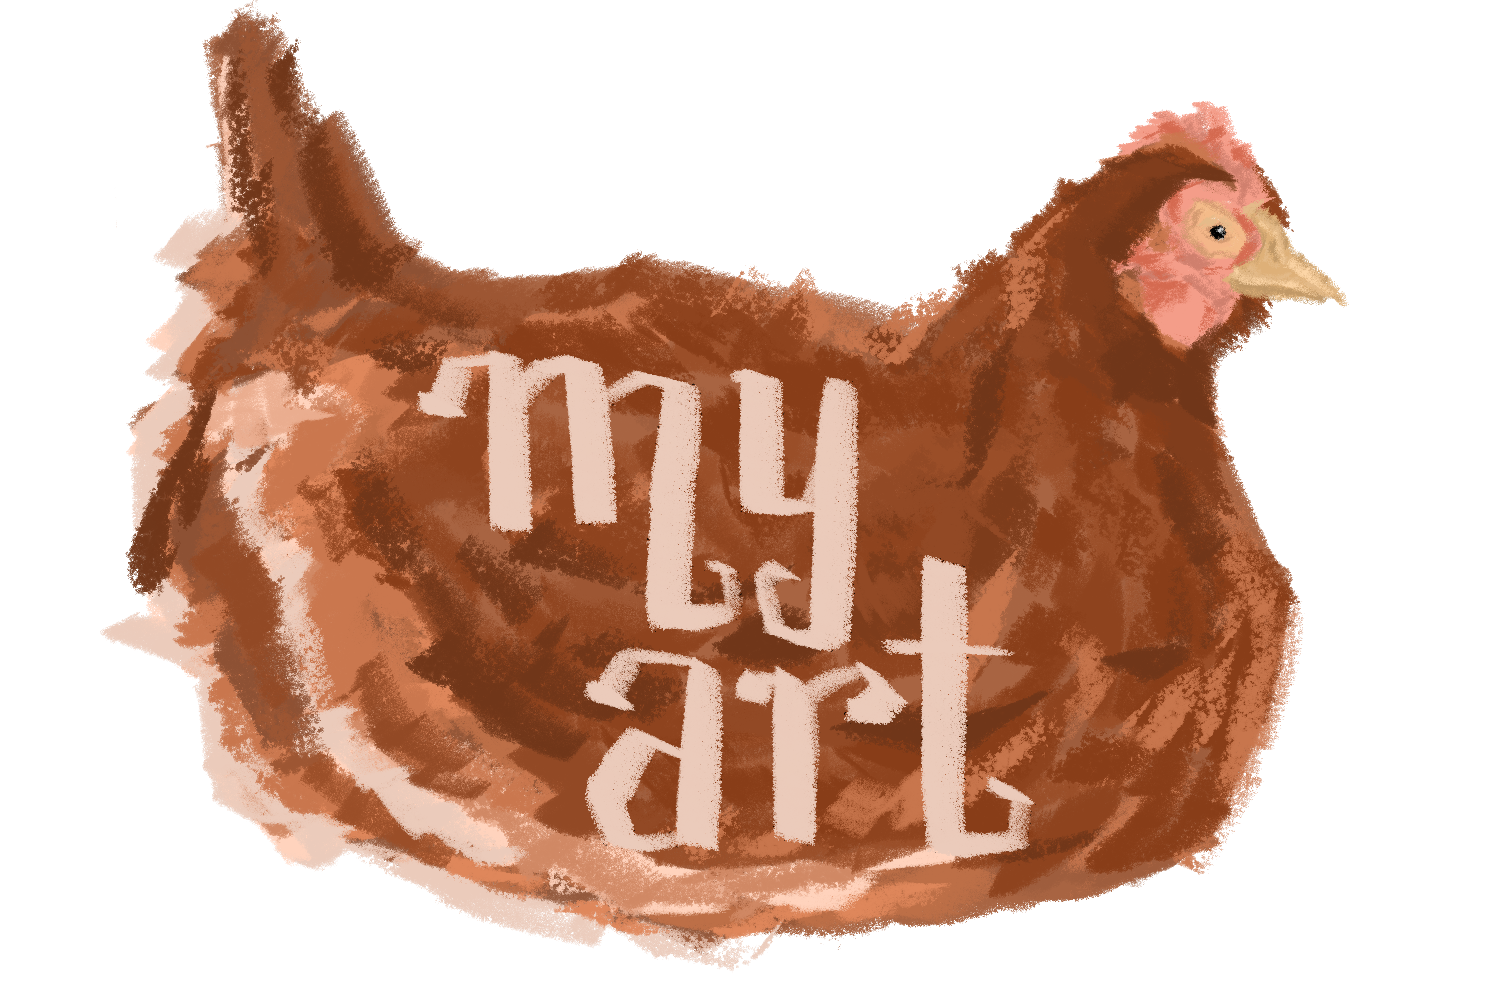
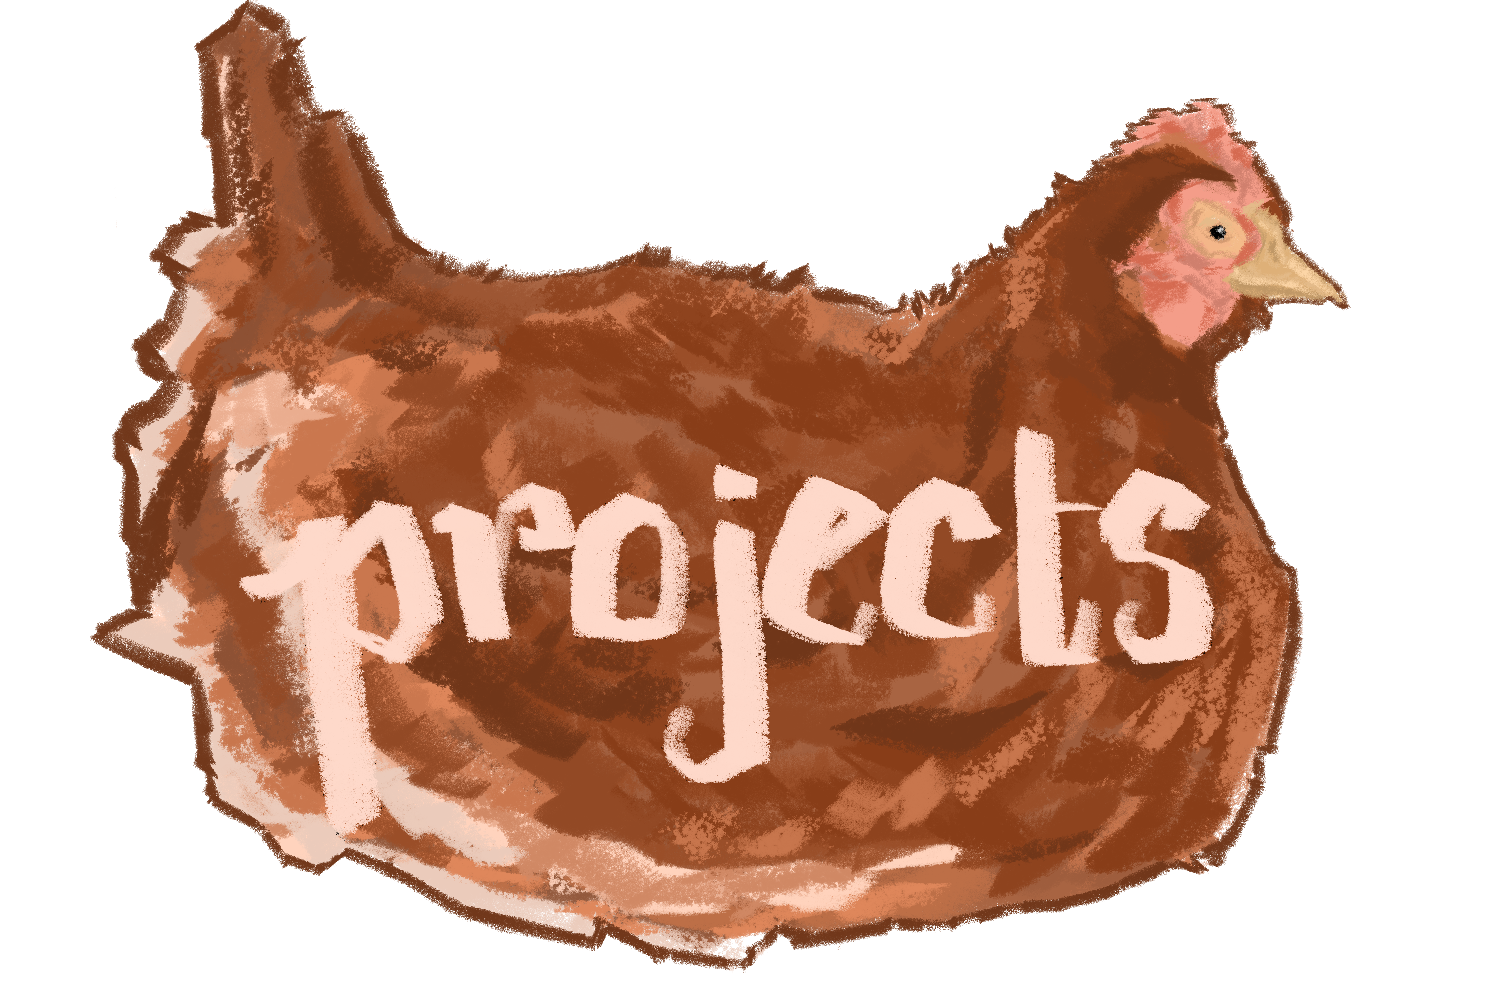
change project page contents and main index page contants

diff --git a/index.html b/index.html
@@ -60,7 +60,7 @@
                 <div class="intro-text">
                     <h1>Welcome to My Website!</h1>
                     <p>Hello! My name is Nahfila. Welcome to my personal website, where you can explore my drawings and learn more about me.</p>
-                    <p>I hold a Bachelor's degree in Computer Science from Hunter College. During my studies, I interned at American Express twice, where I worked on their partner portal and developed a GraphQL model for data security. Additionally, I volunteered with FORA, tutoring refugee children in English and mathematics, and earned the Silver Presidential Service Award.</p>
+                    <p>I have a Bachelor's degree in Computer Science from Hunter College. During my studies, I interned at American Express twice, where I worked on their partner portal and developed a GraphQL model for data security. Additionally, I volunteered with FORA, tutoring refugee children in English and mathematics, and earned the Silver Presidential Service Award.</p>
                     <p>My technical skills include programming languages such as Python, C++, and SQL, as well as web development with HTML, CSS, and JavaScript. I am passionate about leveraging my skills to create impactful solutions and am always eager to take on new challenges. </p>
                     <p>Feel free to use the navigation bar to learn more about my work and experiences.</p>
                 </div>

diff --git a/art.html b/art.html
@@ -52,7 +52,7 @@
         </nav>
     </header>
     <main> 
-        <p>my art.</p>
+        <p>projects coming soon...</p>
     </main>
 </body>
 </html>
